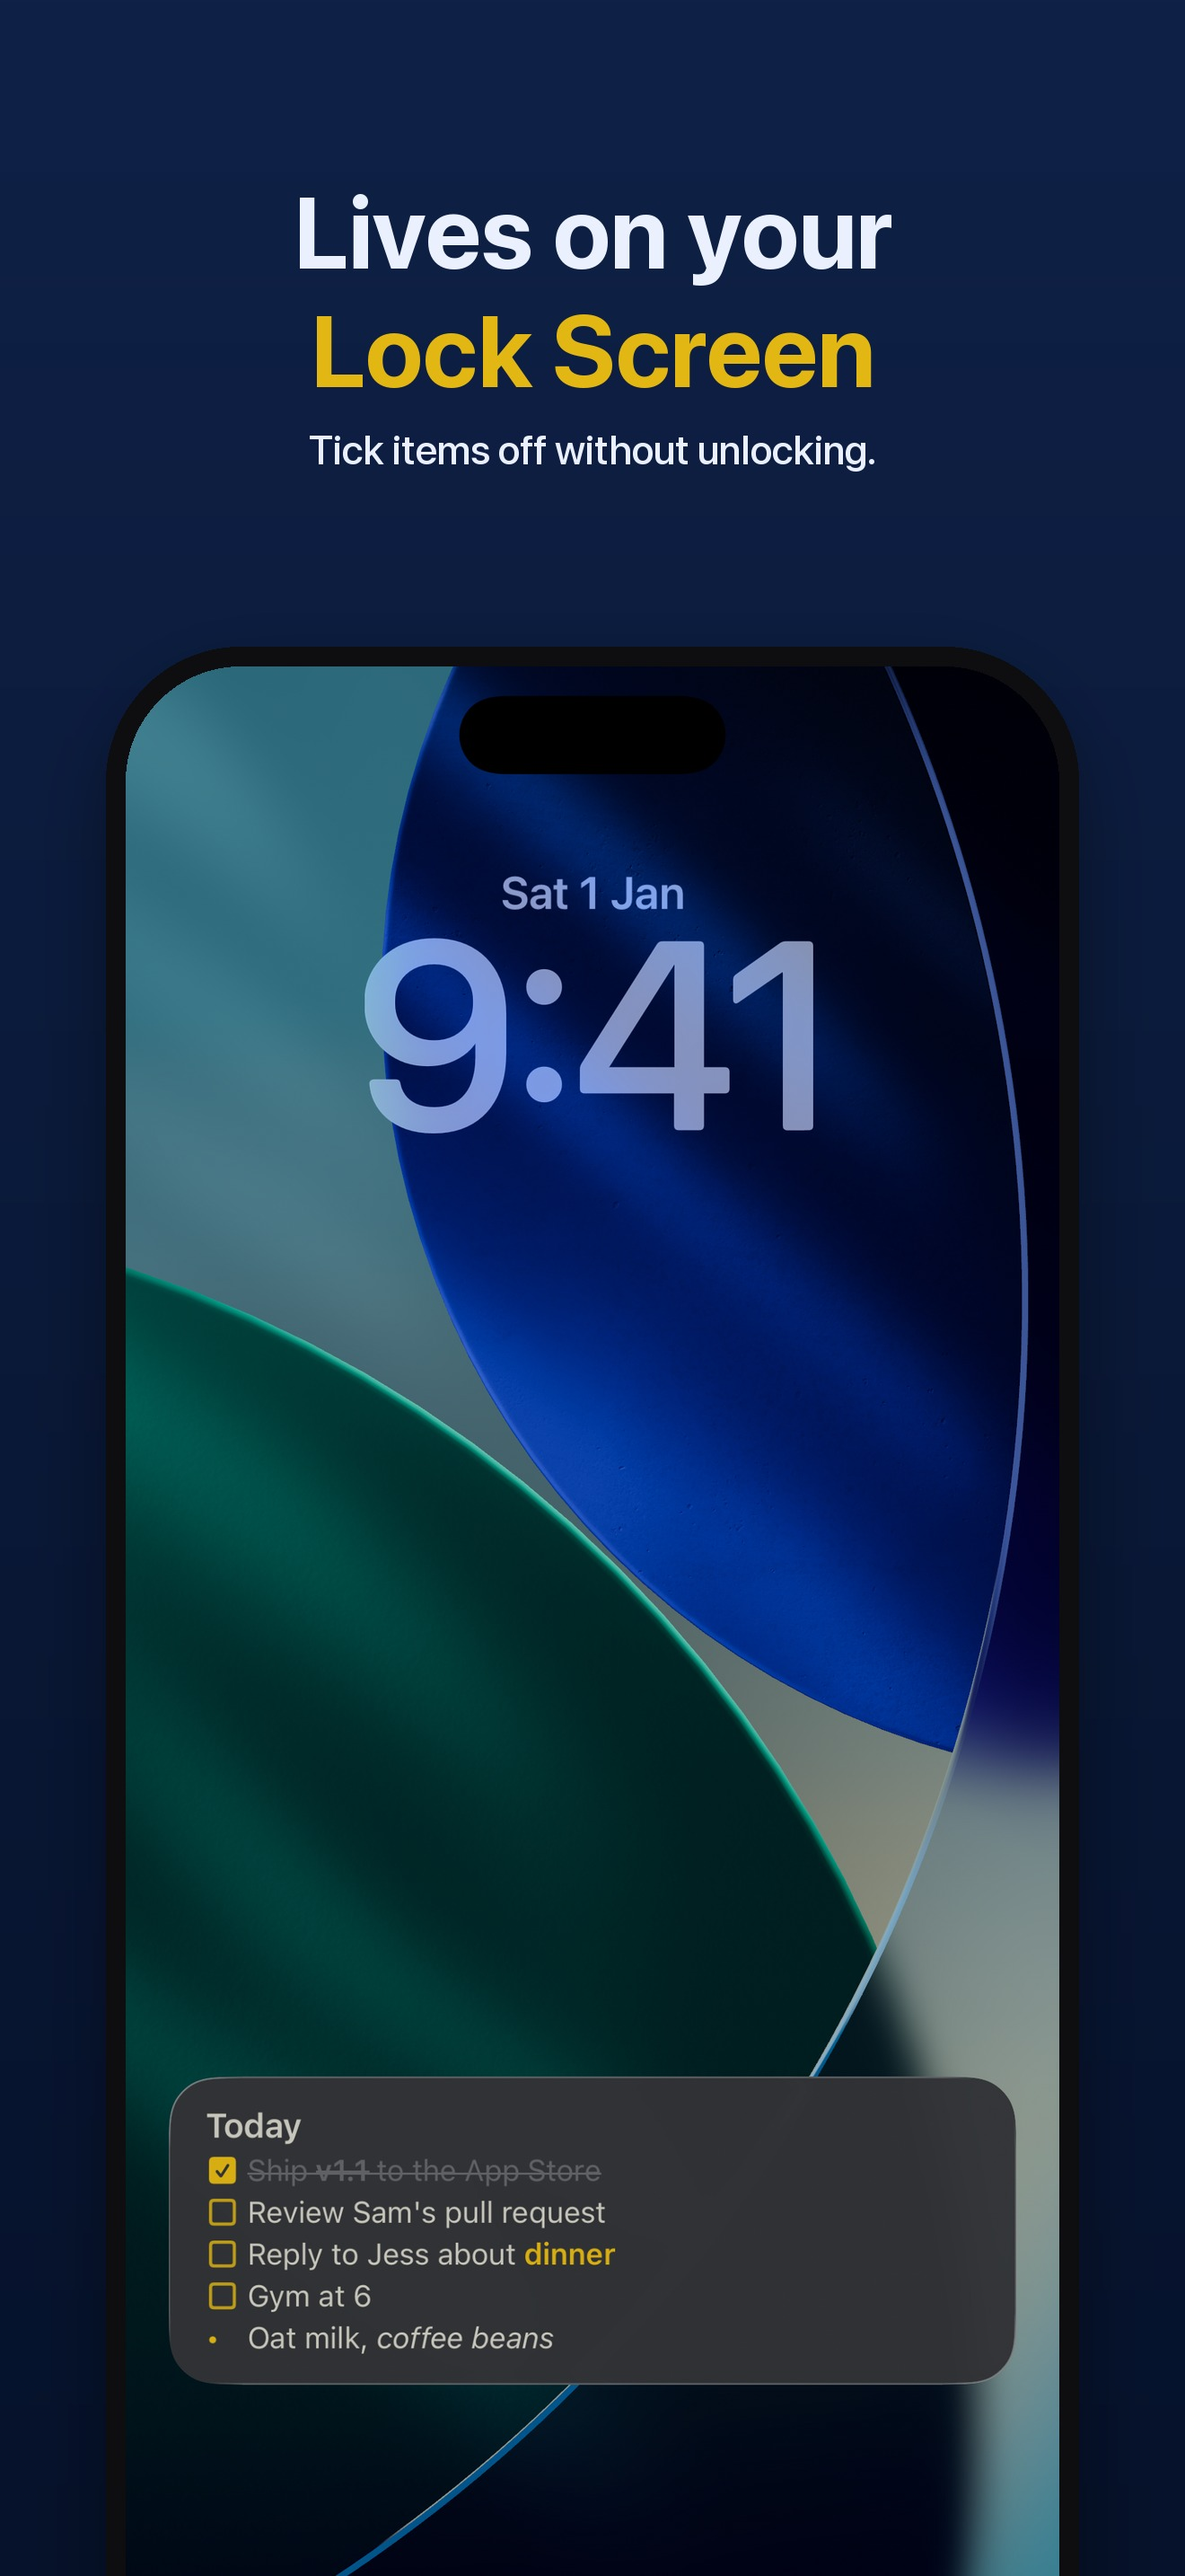
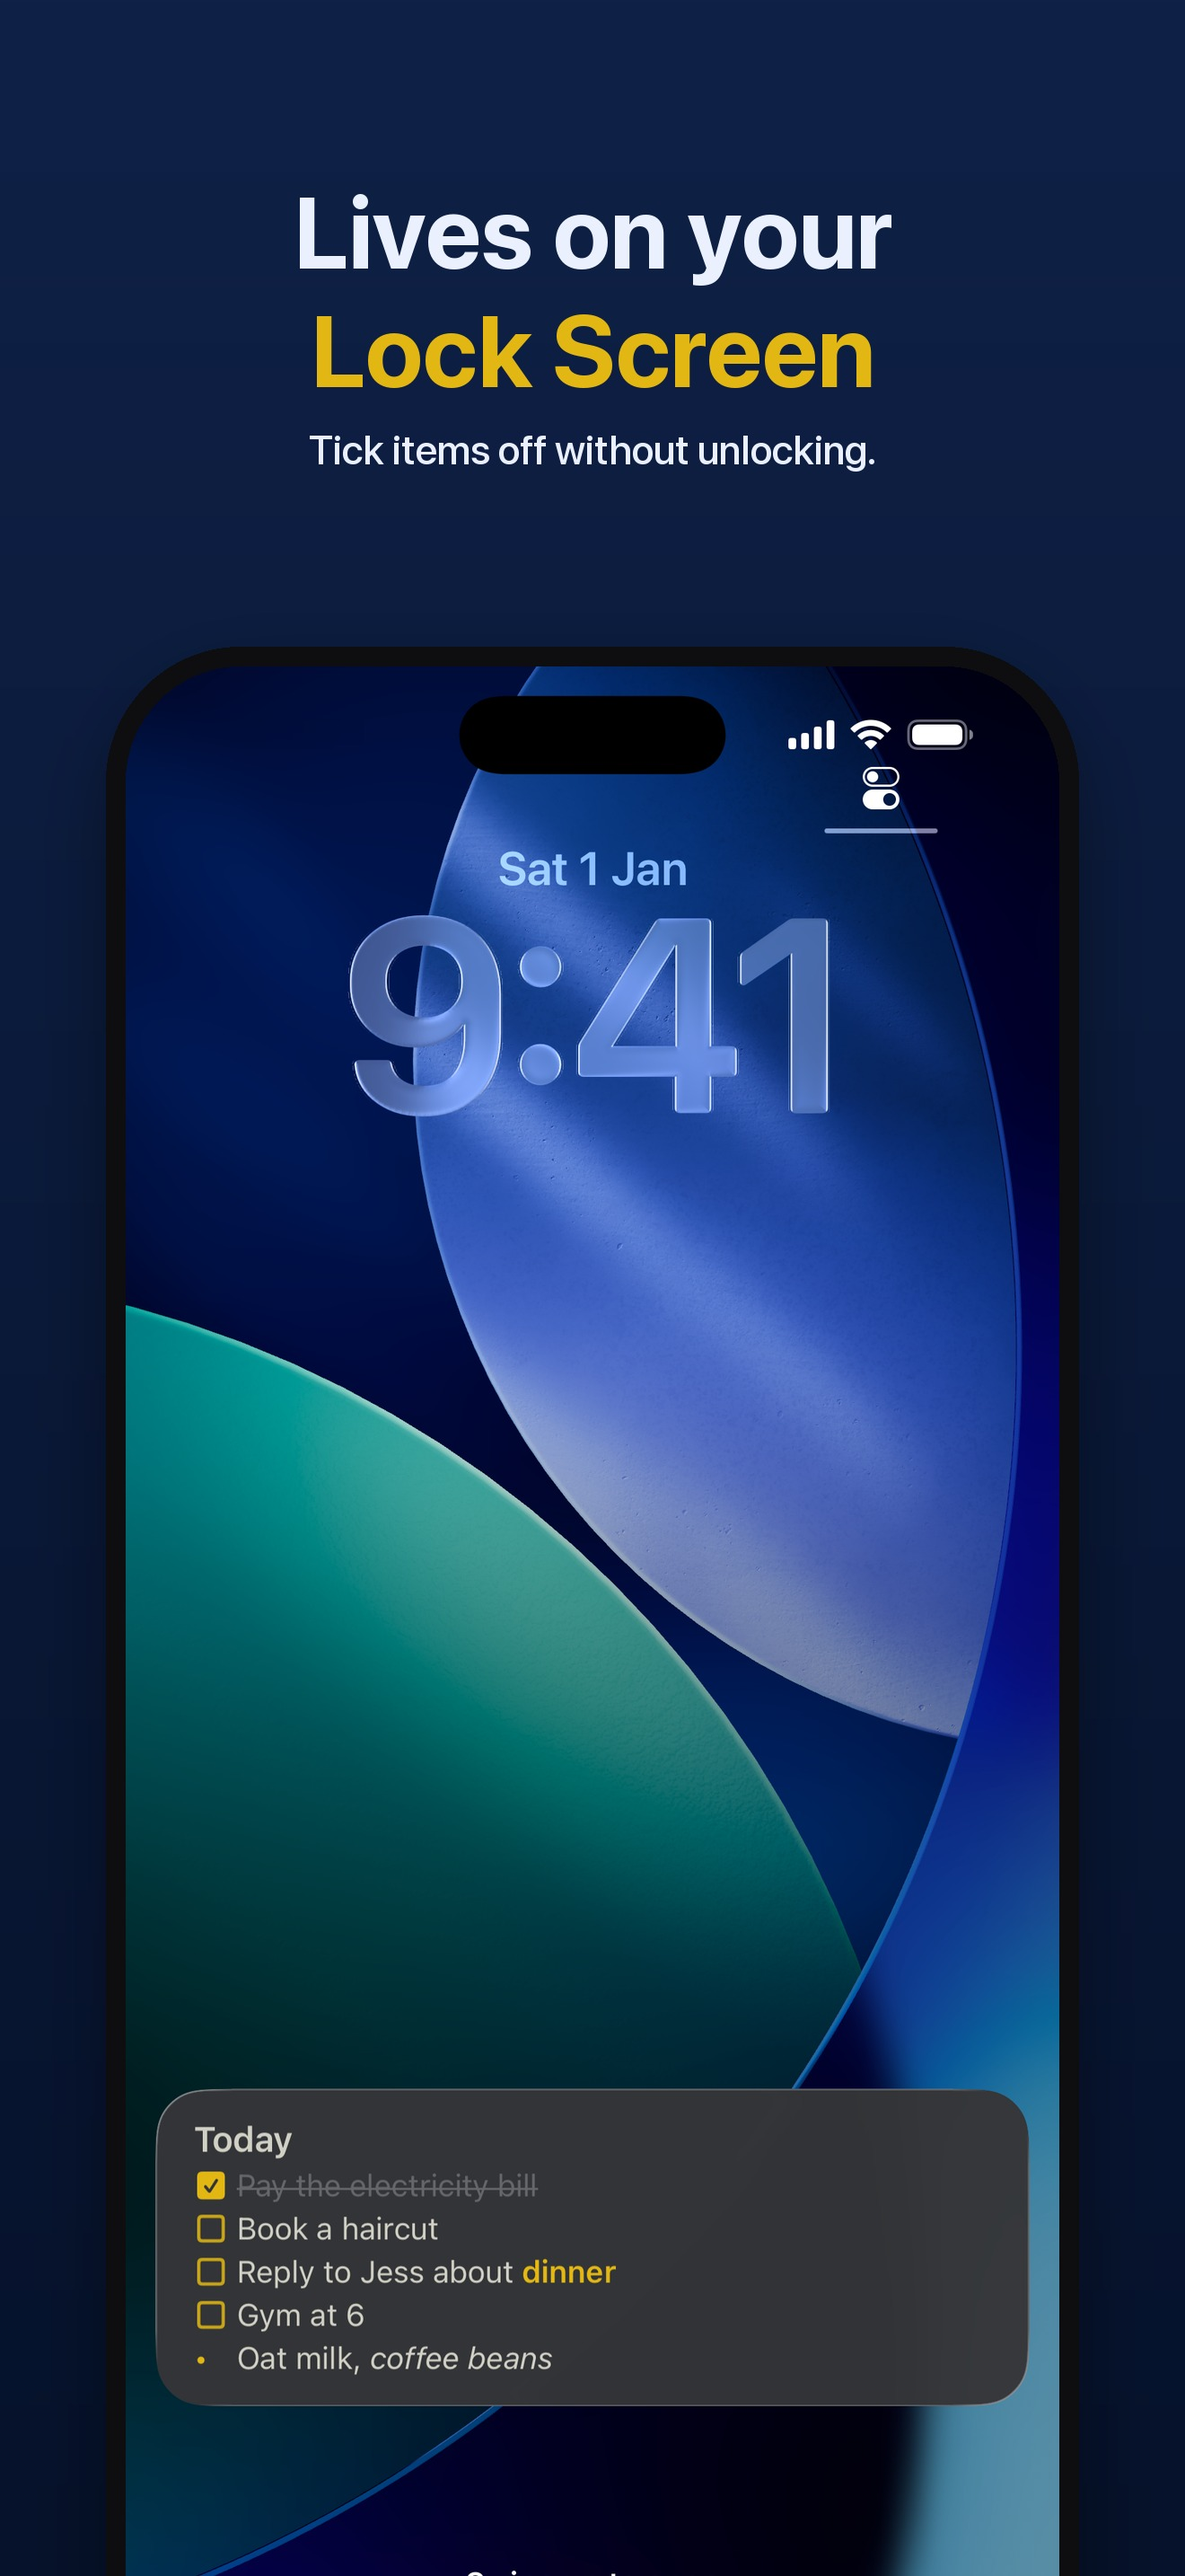
mynote 1.1 (build 3) store screenshots: everyday lists, no Dynamic Island panel
Five panels instead of six: the Dynamic Island shot is gone (the build no longer
shows there) and the themes panel reads "50 themes to make it yours". Notes in
every shot are everyday lists instead of developer to-dos. The framing script
clears its output folders so dropped panels don't linger.

diff --git a/design/frame_screenshots.py b/design/frame_screenshots.py
@@ -1,4 +1,5 @@
-"""Builds the App Store screenshots (1320x2868, 6.9") from raw simulator captures."""
+"""Builds the App Store screenshots (1320x2868, 6.9") from raw simulator captures.
+Clears the output folders first so renamed or dropped panels don't linger."""
 from PIL import Image, ImageDraw, ImageFilter, ImageFont
 import os
 
@@ -40,6 +41,9 @@ def rounded_mask(size, radius):
 framed = []
 for folder in (OUT, OUT + "-6.9-jpg", OUT + "-6.5", OUT + "-6.5-jpg"):
     os.makedirs(folder, exist_ok=True)
+    for old in os.listdir(folder):
+        if old.lower().endswith((".png", ".jpg")):
+            os.remove(os.path.join(folder, old))
 
 
 def compose(raw, out, lines, bg, fg, accent, highlight_line=1, sub=None):
@@ -93,23 +97,20 @@ compose("mynote-raw-home.png", "01-home.png", ["One list.", "Always in sight."],
 compose("mynote-raw-lock.png", "02-lock-screen.png", ["Lives on your", "Lock Screen"],
         ("#0F2147", "#06122B"), (235, 240, 255), hex2rgb("#E2B714"),
         sub="Tick items off without unlocking.")
-compose("mynote-raw-island.png", "03-dynamic-island.png", ["Tick it off", "from anywhere"],
-        ("#1B2B4F", "#0B1430"), (235, 240, 255), hex2rgb("#E2B714"),
-        sub="In the Dynamic Island, all day.")
-compose("mynote-raw-themes.png", "04-themes.png", ["50 themes", "devs love"],
+compose("mynote-raw-themes.png", "03-themes.png", ["50 themes", "to make it yours"],
         ("#2C2E3B", "#1F202A"), hex2rgb("#F8F8F2"), hex2rgb("#BD93F9"),
         sub="Try any free. Supporters get all 50.")
-compose("mynote-raw-editor.png", "05-editor.png", ["Write it", "your way"],
+compose("mynote-raw-editor.png", "04-editor.png", ["Write it", "your way"],
         ("#FBF6F0", "#F2E9E1"), hex2rgb("#575279"), hex2rgb("#B4637A"),
         sub="Rich text or Markdown, your pick.")
-compose("mynote-raw-widget.png", "06-widget.png", ["Widgets that", "stay in sync"],
+compose("mynote-raw-widget.png", "05-widget.png", ["Widgets that", "stay in sync"],
         ("#E3EEF6", "#C9DCEB"), hex2rgb("#22324A"), hex2rgb("#B4637A"),
         sub="Tappable checkboxes on your Home Screen.")
 
-# Contact sheet to review all six at a glance.
+# Contact sheet to review them all at a glance.
 tw, th, gap = 440, 956, 20
-sheet = Image.new("RGB", (3 * tw + 2 * gap, 2 * th + gap), (128, 128, 128))
+sheet = Image.new("RGB", (len(framed) * tw + (len(framed) - 1) * gap, th), (128, 128, 128))
 for i, img in enumerate(framed):
-    sheet.paste(img.resize((tw, th), Image.LANCZOS), ((i % 3) * (tw + gap), (i // 3) * (th + gap)))
+    sheet.paste(img.resize((tw, th), Image.LANCZOS), (i * (tw + gap), 0))
 sheet.save(os.path.join(ROOT, "appstore", "mynote-screenshot-sheet.jpg"), quality=85)
 print("wrote contact sheet")
